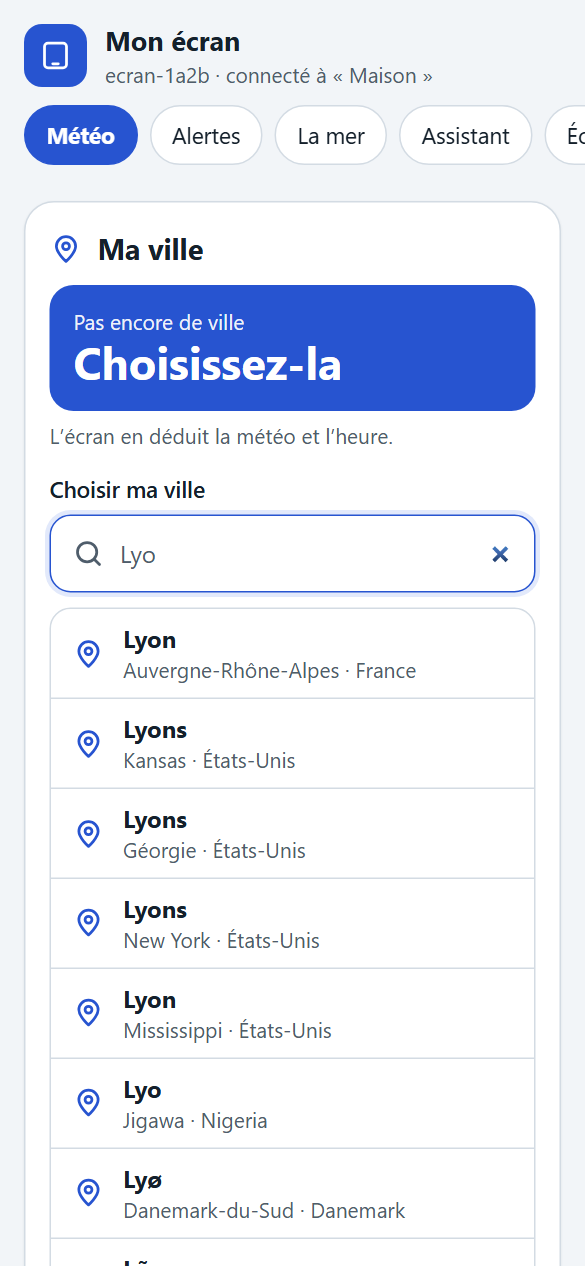
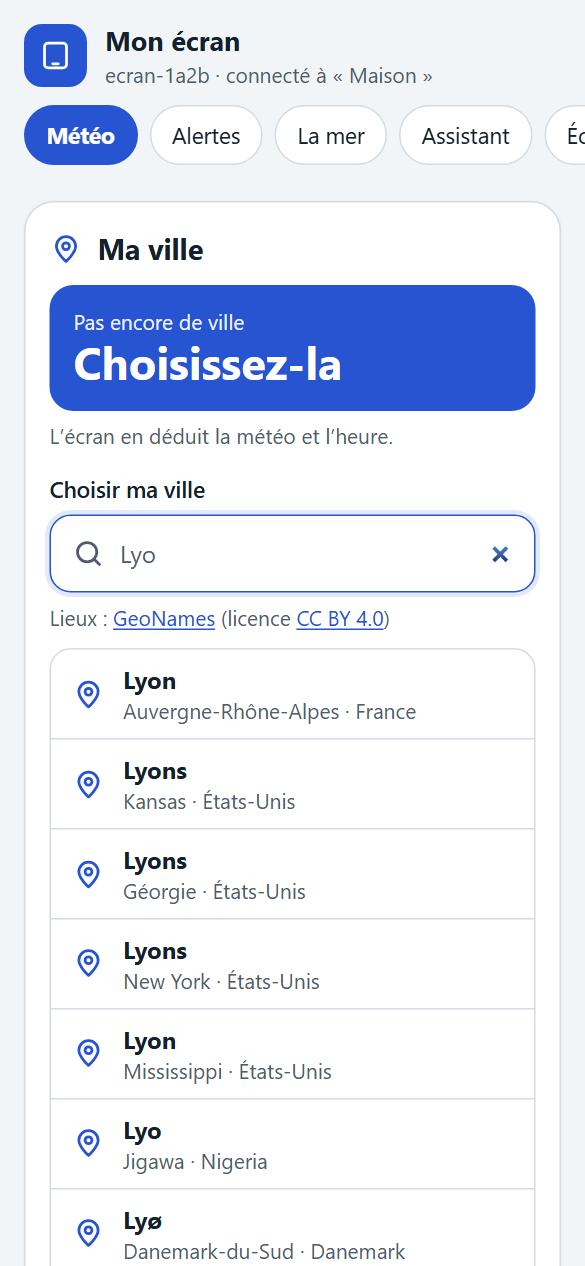
feat(reglages): crédit GeoNames avec les résultats de la recherche de ville
Le géocodage d'Open-Meteo renvoie des lieux tirés de GeoNames (CC BY 4.0), que rien ne
créditait. La page de réglages écrit « Lieux : GeoNames (licence CC BY 4.0) » sous la
liste des résultats, avec un lien vers GeoNames et vers la licence, comme le crédit des
spots. L'écran le dit aussi, sur la ligne d'état juste au-dessus de la liste
(remplir_resultats() de main/ui_reglages.cpp, accord de la session mère : L3 change ce
fichier ailleurs) ; cette ligne est vide quand il y a des résultats, aucun message n'est
écrasé. Même clé « Lieux : {lien} (licence CC BY 4.0) » pour la page et l'écran, dans les
sept langues ; tables régénérées. Nouvelle variante du banc : reglages/ville-resultats.

Parcours web contre le faux serveur : 320/320.

Carte: aucune
Teste-sur: non testé sur carte

Changed region(s): [[0.0923, 0.4621, 0.7077, 1.0]]

diff --git a/web/app/app.js b/web/app/app.js
@@ -308,7 +308,10 @@ function carteVille() {
       liste.replaceChildren(...r.resultats.map((l) => h('li', {}, h('button', { type: 'button', class: 'lieu', onclick: () => choisir(l) },
         ico('pin'), h('div', {}, h('b', { text: l.nom }), h('small', { text: [l.region, l.pays].filter(Boolean).join(' · ') }))))));
       liste.hidden = !r.resultats.length;
-      retours.replaceChildren(r.resultats.length ? '' : retour('info', t('ville.aucun_lieu', { q })));
+      /* Les lieux viennent de GeoNames (CC BY 4.0), via le géocodage d'Open-Meteo : le crédit suit la liste, comme celui des spots. */
+      retours.replaceChildren(r.resultats.length
+        ? h('p', { class: 'aide' }, ...nets(liensLicences(tNoeuds('ville.credit', { lien: h('a', { href: 'https://www.geonames.org/', target: '_blank', rel: 'noopener', text: 'GeoNames' }) }))))
+        : retour('info', t('ville.aucun_lieu', { q })));
     } catch (e) {
       if (e.name === 'AbortError' || mon !== seq) return;
       liste.hidden = true;

diff --git a/tools/rendu/scenes/scene_reglages.cpp b/tools/rendu/scenes/scene_reglages.cpp
@@ -82,6 +82,16 @@ void lieu_vide(const banc::Contexte &ctx) {
     aller("section:1");
 }
 
+// La recherche de ville a trouvé des lieux : la liste, et au-dessus le crédit des données de lieux (GeoNames, CC BY 4.0).
+void ville_resultats(const banc::Contexte &ctx) {
+    en_service(ctx);
+    g_hote.lieux_connus = {"Saint-Malo, Bretagne, France", "Saint-Malo-de-Guersac, Pays de la Loire, France",
+                           "Saint-Malo-de-Phily, Bretagne, France", "Saint-Malo-des-Trois-Fontaines, Bretagne, France"};
+    aller("section:1/ville");
+    ecran::ui_simuler_saisie("Saint-Malo", true);
+    tourner();
+}
+
 void lieu_alertes(const banc::Contexte &ctx) {
     en_service(ctx);
     aller("section:1:1");
@@ -302,6 +312,7 @@ const Scene kScenes[] = {
     {"wifi-liste", "Réseau : choix d'un réseau", wifi_liste},
     {"lieu", "Lieu et météo : ville choisie", lieu},
     {"lieu-vide", "Lieu et météo : pas de ville", lieu_vide},
+    {"ville-resultats", "Recherche de ville : quatre lieux trouvés, crédit GeoNames", ville_resultats},
     {"lieu-alertes", "Lieu et météo : alertes officielles (Vigie)", lieu_alertes},
     {"alertes-adresse-saisie", "Alertes officielles : saisie de l'adresse de Vigie", alertes_adresse_saisie},
     {"mer-vide", "La mer : aucun spot gardé", mer_vide},

diff --git a/main/ui_reglages.cpp b/main/ui_reglages.cpp
@@ -1476,7 +1476,10 @@ void remplir_resultats() {
         lv_label_set_text(g_ville.etat, remplir("Aucun lieu trouvé pour « {q} ».", ps, 1, tampon, sizeof tampon));
         return;
     }
-    lv_label_set_text(g_ville.etat, "");
+    // Les lieux viennent de GeoNames (CC BY 4.0), via le géocodage d'Open-Meteo : le crédit suit la liste, comme celui des spots. Le label
+    // d'état est vide quand il y a des résultats (aucun autre message n'est écrasé) ; sa couleur discrète est posée par lancer_recherche().
+    const Param pg[] = {{"lien", "GeoNames"}};
+    lv_label_set_text(g_ville.etat, remplir("Lieux : {lien} (licence CC BY 4.0)", pg, 1, tampon, sizeof tampon));
     for (std::size_t i = 0; i < n; ++i) {
         creer_rangee_bouton(
             g_ville.resultats, lieux[i].libelle, nullptr,
